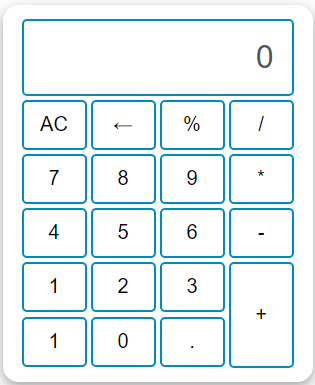
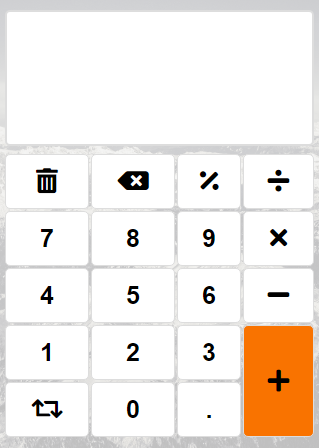
calc

Changed region(s): [[0.0, 0.0, 1.0, 1.0], [0.8, 0.0935, 0.8857, 0.187]]

diff --git a/calc2.html b/calc2.html
@@ -66,51 +66,64 @@
         </ul>
     </div>
 </nav>
-<div class="calc">
+<div class="header">
+    <div class="overlay"></div>
+    <div class="calc">
+            <h1>Калькулятор</h1>
+            <p id="test"></p>
         <table>
             <tr>
                 <td colspan="4">
-                    <label for="calcScreen"></label><textarea name="calcScreen" id="calcScreen" disabled></textarea>
+                    <div class="screen" >
+                        <form name="form">
+                            <input name="screen" class="display" disabled>
+                            <hr>
+                            <input name="result" class="result" disabled>
+                        </form>
+                    </div>
                 </td>
             </tr>
             <tr>
-                <td><button name="AC" value="AC"><i class="fas fa-trash-alt"></i></button></td>
-                <td><button name="backspace" value="backspace"><i class="fas fa-backspace"></i></button></td>
-                <td><button name="percent" value="percent"><i class="fas fa-percentage"></i></button></td>
-                <td><button name="percent" value="devide"><i class="fas fa-divide"></i></button></td>
+                <td><button name="AC" onclick="clearAll()"><i class="fas fa-trash-alt"></i></button></td>
+                <td><button name="backspace" onclick="backspace()"><i class="fas fa-backspace"></i></button></td>
+                <td><button name="percent" onclick="display('%')"><i class="fas fa-percentage"></i></button></td>
+                <td><button name="divide" onclick="display('/')"><i class="fas fa-divide"></i></button></td>
             </tr>
             <tr>
-                <td><button name="seven" onclick="">7</button></td>
-                <td><button name="eight">8</button></td>
-                <td><button name="nine">9</button></td>
-                <td><button name="times"><i class="fas fa-times"></i></button></td>
+                <td><button name="seven" onclick="display(7)">7</button></td>
+                <td><button name="eight" onclick="display(8)">8</button></td>
+                <td><button name="nine" onclick="display(9)">9</button></td>
+                <td><button name="times" onclick="display('*')"><i class="fas fa-times"></i></button></td>
             </tr>
             <tr>
-                <td><button name="four">4</button></td>
-                <td><button name="five">5</button></td>
-                <td><button name="six">6</button></td>
-                <td><button name="minus"><i class="fas fa-minus"></i></button></td>
+                <td><button name="four" onclick="display(4)">4</button></td>
+                <td><button name="five" onclick="display(5)">5</button></td>
+                <td><button name="six" onclick="display(6)">6</button></td>
+                <td><button name="minus" onclick="display('-')"><i class="fas fa-minus"></i></button></td>
             </tr>
             <tr>
-                <td><button name="one">1</button></td>
-                <td><button name="two">2</button></td>
-                <td><button name="three">3</button></td>
-                <td rowspan="2"><button name="plus"><i class="fas fa-plus"></i></button></td>
+                <td><button name="one" onclick="display(1)">1</button></td>
+                <td><button name="two" onclick="display(2)">2</button></td>
+                <td><button name="three" onclick="display(3)">3</button></td>
+                <td rowspan="2"><button name="plus" onclick="display('+')"><i class="fas fa-plus"></i></button></td>
             </tr>
             <tr>
                 <td><button name="renew"><i class="fas fa-retweet"></i></button></td>
-                <td><button name="zero" value="0" onclick="display()">0</button></td>
-                <td><button name="dot">.</button></td>
+                <td><button name="zero" value="0" onclick="display(0)">0</button></td>
+                <td><button name="dot" onclick="display('.')">.</button></td>
             </tr>
         </table>
+    </div>
 </div>
+
 <!-- Contact form -->
 <div class="contact-form" id="contact-form">
     <div class="container">
+        <h1 class="text-center">Обратная связь</h1>
         <form>
             <div class="row">
                 <div class="col-lg-4 col-md-4 col-sm-12">
-                    <h1>Написать письмо</h1>
+                    <h3 class="text-center">Написать письмо</h3>
                 </div>
                 <div class="col-lg-8 col-md-8 col-sm-12 right">
                     <div class="form-group">

diff --git a/index.html b/index.html
@@ -80,7 +80,7 @@
         <h1 class="text-center">Обо мне</h1>
         <div class="row">
             <div class="col-lg-4 col-md-4 col-sm-12">
-                <img src="images/ed.jpg" class="img-fluid" alt="Elnur">
+                <img src="images/ed.jpg" class="img-fluid rounded-circle mx-auto d-block" alt="Elnur">
             </div>
             <div class="col-lg-8 col-md-8 col-sm-12 desc">
                 <h2>Эльнур Дадашов</h2>
@@ -124,13 +124,14 @@
 <!--    </div>-->
     <!-- Portfolio -->
     <div class="blog" id="portfolio">
+        <h1 class="text-center">Портфолио</h1>
         <div class="container">
-            <h1 class="text-center">Портфолио</h1>
             <div class="row">
-                <div class="col-md-4 col-lg-4 col-sm-12">
-                    <div class="card">
+                <div class="col-md-3 col-lg-3 col-sm-9">
+
+                    <div class="card"><a href="calc2.html"></a>
                         <div class="card-img">
-                            <img src="images/calc.png" class="img-fluid">
+                            <img src="images/calc.png" class="rounded mx-auto d-block img-thumbnail img-fluid">
                         </div>
 
                         <div class="card-body">
@@ -144,10 +145,10 @@
                         </div>
                     </div>
                 </div>
-                <div class="col-md-4 col-lg-4 col-sm-12">
+                <div class="col-md-3 col-lg-3 col-sm-9">
                     <div class="card">
                         <div class="card-img">
-                            <img src="images/horo.png" class="img-fluid">
+                            <img src="images/horo.png" class="rounded mx-auto d-block img-thumbnail img-fluid">
                         </div>
 
                         <div class="card-body">
@@ -161,10 +162,10 @@
                         </div>
                     </div>
                 </div>
-                <div class="col-md-4 col-lg-4 col-sm-12">
+                <div class="col-md-3 col-lg-3 col-sm-9">
                     <div class="card">
                         <div class="card-img">
-                            <img src="images/game.png" class="img-fluid">
+                            <img src="images/game.png" class="rounded mx-auto d-block img-thumbnail img-fluid">
                         </div>
 
                         <div class="card-body">
@@ -177,16 +178,33 @@
                         </div>
                     </div>
                 </div>
+                <div class="col-md-3 col-lg-3 col-sm-9">
+                    <div class="card">
+                        <div class="card-img">
+                            <img src="images/calc.png" class="rounded mx-auto d-block img-thumbnail img-fluid">
+                        </div>
+
+                        <div class="card-body">
+                            <h4 class="card-title">Pairs</h4>
+                            <p class="card-text">JS Pairs
+                            </p>
+                        </div>
+                        <div class="card-footer">
+                            <a href="calc2.html" class="card-link">Давай посмотрим</a>
+                        </div>
+                    </div>
+                </div>
             </div>
         </div>
     </div>
     <!-- Contact form -->
     <div class="contact-form" id="contact-form">
         <div class="container">
+            <h1 class="text-center">Обратная связь</h1>
             <form>
                 <div class="row">
                     <div class="col-lg-4 col-md-4 col-sm-12">
-                        <h1>Написать письмо</h1>
+                        <h3>Написать письмо</h3>
                     </div>
                     <div class="col-lg-8 col-md-8 col-sm-12 right">
                         <div class="form-group">

diff --git a/css/main.css b/css/main.css
@@ -12,6 +12,8 @@ html,h1,h2,h3,h4,h5,h6,a{font-family: 'Montserrat', sans-serif;}
     background-attachment: fixed;
     background-size: cover;
     background-position: center;
+    min-height: 50%;
+    min-width: 100%;
 }
 .overlay{
     position: absolute;
@@ -51,9 +53,9 @@ html,h1,h2,h3,h4,h5,h6,a{font-family: 'Montserrat', sans-serif;}
     margin: 2em;
 }
 .about img{
-    max-width:95%;
-    height:auto;
-    border-radius: 20%;
+    max-width: 250px;
+    max-height: 300px;
+    border-radius: 50%;
 }
 .about .desc{
     padding: 1em;
@@ -98,8 +100,11 @@ html,h1,h2,h3,h4,h5,h6,a{font-family: 'Montserrat', sans-serif;}
     box-shadow: 0 0 20px #ccc;
 }
 .blog .card img{
-    width: 100%;
-    height: 12em;
+    /*max-height: 250px;*/
+    max-width: 100%;
+    height: auto;
+    margin: 2px;
+    /*height: 10em;*/
 }
 .blog .card-title{
     color:#F97300;
@@ -117,6 +122,10 @@ html,h1,h2,h3,h4,h5,h6,a{font-family: 'Montserrat', sans-serif;}
     padding:2em 1px;
     color: #F97300;
 }
+.contact-form h3{
+    padding:2em 1px;
+    color: #F97300;
+}
 .contact-form .right{
     max-width: 600px;
 }
@@ -131,27 +140,37 @@ html,h1,h2,h3,h4,h5,h6,a{font-family: 'Montserrat', sans-serif;}
 }
 /*Calc*/
 .calc{
-    margin: 4em;
-    padding: 1em;
+    padding: 6em;
     position: relative;
     display: grid;
     grid-template-rows: auto;
     grid-template-columns: auto;
     grid-gap: 1vw;
-    background-color: #ffffff;
-    border: 1px solid white;
-    border-radius: 15px;
-    box-shadow: 0 4px 8px 0 rgba(0, 0, 0, 0.2), 0 6px 20px 0 rgba(0, 0, 0, 0.19);
+    /*background-color: #ffffff;*/
+    /*border: 1px solid white;*/
+    /*border-radius: 15px;*/
+    /*box-shadow: 0 4px 8px 0 rgba(0, 0, 0, 0.2), 0 6px 20px 0 rgba(0, 0, 0, 0.19);*/
 }
-.calc textarea{
+.calc h1{
+    color: #F97300;
+    text-align: center;
+}
+.screen {
     width: 100%;
+    height: 150px;
     padding: 18px;
-    border: 2px solid #dddddd;
-    border-radius: 5px;
     background-color: white;
-    font-size: 32px;
-    text-align: right;
+}
+.display, .result{
+    width: 100%;
+    font-size: 22px;
     resize: none;
+    text-align: right;
+    background-color: white;
+    border: none;
+}
+.result {
+    font-size: 32px;
 }
 .calc button[name="plus"]{
     height: 112px;
@@ -162,7 +181,7 @@ html,h1,h2,h3,h4,h5,h6,a{font-family: 'Montserrat', sans-serif;}
     width: 100%;
     height: 100%;
     color: black;
-    padding: 8px 10px;
+    padding: 8px;
     text-align: center;
     text-decoration: none;
     display: block;

diff --git a/js/main.js b/js/main.js
@@ -7,3 +7,29 @@ $(".navbar a").click(function(){
         scrollTop:$("#" + $(this).data('value')).offset().top
     },5000)
 });
+function display(num) {
+    document.form.screen.value = document.form.screen.value + num;
+    equal();
+}
+function clearAll() {
+    document.form.screen.value = "";
+    document.form.result.value = "";
+}
+
+function equal() {
+    let exp = document.form.screen.value;
+    if(exp){
+        document.form.result.value = eval(exp);
+    }
+
+    let value = document.form.screen.value;
+    var length = value.length - 1;
+
+    console.log("Length is " + length);
+    console.log("charAt is " + value.charAt(length));
+}
+function backspace() {
+    var exp = document.form.screen.value;
+    document.form.screen.value = exp.substring(0, exp.length-1);
+    equal();
+}

diff --git a/horo.html b/horo.html
@@ -6,7 +6,7 @@
     <link rel="stylesheet" href="css/styles.css">
     <link href="https://fonts.googleapis.com/css?family=Raleway&display=swap" rel="stylesheet">
     <script src="https://use.fontawesome.com/a5a6bbda4a.js"></script>
-    <script src="chinese_horoscope.js"></script>
+    <script src="js/chinese_horoscope.js"></script>
 </head>
 <body>
     <header>
